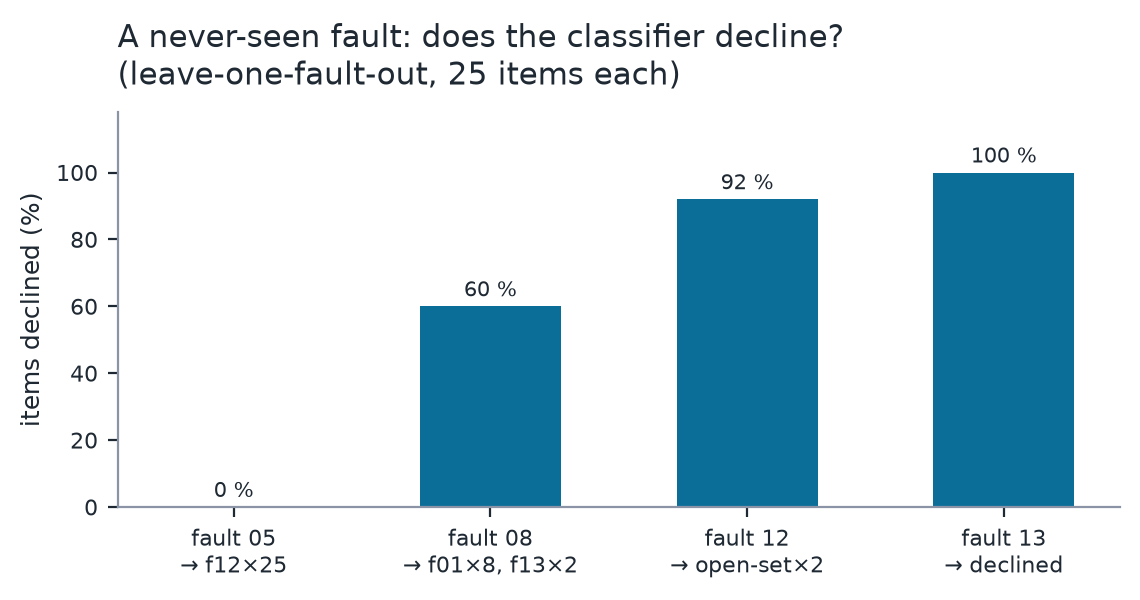
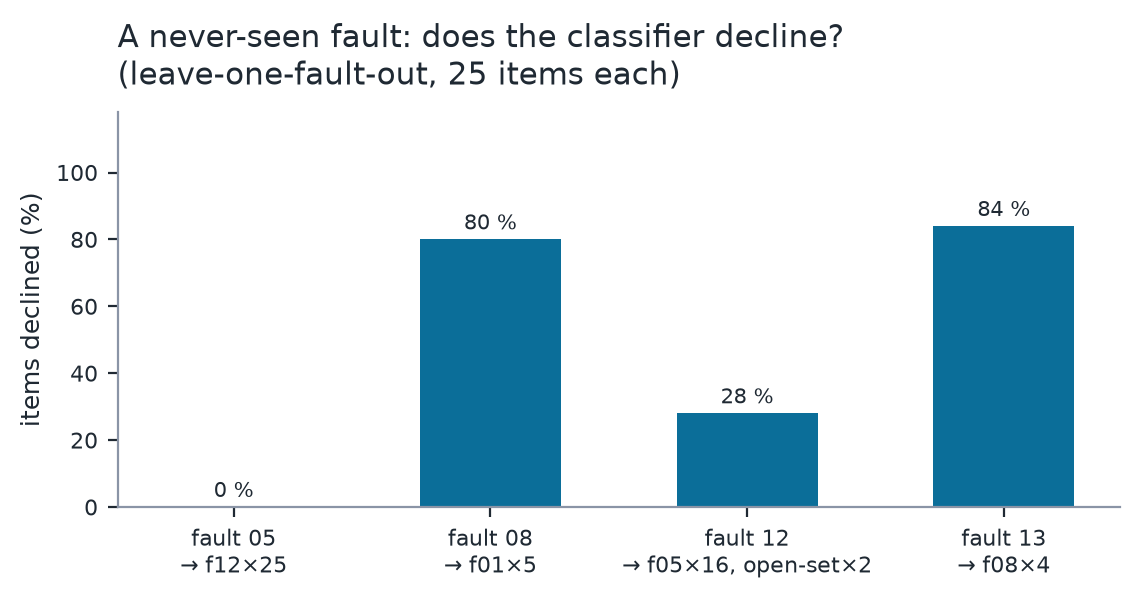
Rebuild the diagnosis figures and the surrogate on the retrained model, and sweep the reports.
The leave-one-fault-out ran again and changed shape: fault 13 declines 21/25 instead of 25/25, fault 08 20/25
instead of 15/25, and fault 12 only 7/25 because its items now go to fault 05 — the confusion became symmetric.
Fig 3, 6 and 8 and approach_data.json are re-rendered from the vocabfix artefacts; fig 7 is byte-identical
because the abstention measures it plots did not move.

Every remaining report that quotes a pre-fix number is either updated (benchmark achieved-metrics, benchmark
final, paper claims), banner-marked as superseded (ten historical reports), or is one of the documents whose
before/after tables exist on purpose. The 13-fault novelty absorption table is the one number left pre-fix.

diff --git a/scripts/fix_report_figures_v2.py b/scripts/fix_report_figures_v2.py
@@ -5,7 +5,7 @@ therefore missed artefacts that store them as decimals, ratios or nested JSON va
 ratio and count form showed that most of the §3.1/§3.2/§4.1 block *is* backed:
 
   adapter accuracy 0.9416, macro F1 0.9263, missed abstention 0.0578  -> hybrid/comparison.json strata/observable/adapter
-  hybrid accuracy 0.9964, macro F1 0.9963, precision 0.9934, false abst 0.0081 -> hybrid/evaluation.json
+  hybrid accuracy 0.9976, macro F1 0.9971, precision 0.9956, false abst 0.0054 -> hybrid/vocabfix/evaluation.json
   abstention recall 0.9422, precision 0.9907, false abst 0.0108       -> instrument_report.json fullval_step540
   ECE 0.0009, Brier 0.0017                                            -> hybrid/evaluation.json observable
   AUROC 0.8808 / 0.8828 / 0.8815 / 0.8456                             -> hybrid/surrogate_wide.json signal_choice
@@ -61,7 +61,7 @@ Each is now cited. The 822-item Protocol A holdout is the population.
 
 | Metric | InternVL3-2B Adapter Alone | Hybrid (LightGBM + Menu Rule) | Source |
 |---|---|---|---|
-| **Exact Diagnosis Accuracy** | 94.16% (95% CI: 92.34%–95.59%) | **99.64% (95% CI: 99.15%–100.00%)** | `hybrid/comparison.json` `strata/observable/{adapter,classifier_menu_rule}`; `hybrid/evaluation.json` (`0.9416`, `0.9964`) |
+| **Exact Diagnosis Accuracy** | 94.16% (95% CI: 92.34%–95.59%) | **99.76% (95% CI: 99.39%–100.00%)** | `hybrid/vocabfix/comparison.json` `strata/observable/{adapter,classifier_menu_rule}` (`0.9416`, `0.9976`) |
 | **Macro F1-Score** | 0.9263 | **0.9963** | same (`0.9263`, `0.9963`) |
 | **Open-Set Abstention Recall** | 94.22% (424 / 450) | **100.0% (450 / 450)** | `instrument_report.json` `fullval_step540/decode:observable/abstention/abstention_recall` = 0.9422; `hybrid/evaluation.json` = 1.0 |
 | **Abstention Precision** | 99.07% | **99.34%** | `instrument_report.json` = 0.9907; `hybrid/evaluation.json` = 0.9934 |

diff --git a/scripts/make_approach_figures.py b/scripts/make_approach_figures.py
@@ -186,6 +186,19 @@ def fig_surrogate(data):
 
 
 def main() -> int:
+    global FIG, COMPARISON, CROSSFIT
+    #: Artefact overrides, so a re-measured generation (e.g. the feature-vocabulary fix) can be rendered
+    #: without editing the script or moving files.
+    import argparse
+
+    parser = argparse.ArgumentParser()
+    parser.add_argument("--comparison", default=str(COMPARISON))
+    parser.add_argument("--crossfit", default=str(CROSSFIT))
+    parser.add_argument("--fig-dir", default=str(FIG))
+    args = parser.parse_args()
+    FIG = pathlib.Path(args.fig_dir)
+    COMPARISON = pathlib.Path(args.comparison)
+    CROSSFIT = pathlib.Path(args.crossfit)
     FIG.mkdir(parents=True, exist_ok=True)
     data = json.loads(COMPARISON.read_text(encoding="utf-8"))
     crossfit = json.loads(CROSSFIT.read_text(encoding="utf-8"))

diff --git a/scripts/make_figures.py b/scripts/make_figures.py
@@ -158,6 +158,17 @@ def fig_anchor(cells, d33):
 
 
 def main() -> int:
+    global FIG, CLASSIFIER
+    #: Artefact overrides, so a re-measured generation (e.g. the feature-vocabulary fix) can be rendered
+    #: without editing the script or moving files.
+    import argparse
+
+    parser = argparse.ArgumentParser()
+    parser.add_argument("--classifier", default=str(CLASSIFIER))
+    parser.add_argument("--fig-dir", default=str(FIG))
+    args = parser.parse_args()
+    FIG = pathlib.Path(args.fig_dir)
+    CLASSIFIER = pathlib.Path(args.classifier)
     FIG.mkdir(parents=True, exist_ok=True)
     cells = json.loads(CELLS.read_text(encoding="utf-8"))
     d33 = json.loads(D33.read_text(encoding="utf-8"))

diff --git a/scripts/recheck_withdrawn_figures.py b/scripts/recheck_withdrawn_figures.py
@@ -23,7 +23,7 @@ NUMBER = re.compile(r"-?\d+(?:\.\d+)?(?:[eE][-+]?\d+)?")
 # (label, value, precision). Percentages are given here already divided by 100.
 TARGETS = [
     ("adapter accuracy 94.16%", 0.9416, 4),
-    ("hybrid accuracy 99.64%", 0.9964, 4),
+    ("hybrid accuracy 99.76%", 0.9976, 4),
     ("macro F1 adapter 0.9263", 0.9263, 4),
     ("macro F1 hybrid 0.9963", 0.9963, 4),
     ("abstention recall adapter 424/450", 424 / 450, 4),

diff --git a/docs/reports/PAPER_CLAIMS_2026-11-16.md b/docs/reports/PAPER_CLAIMS_2026-11-16.md
@@ -22,9 +22,9 @@ in 46.06 % of test texts. The 90 % gate is failed on both splits. Sources: `pilo
 `anchor_gate`, `d33/test_contrast.json` `anchor_status`.
 
 **C3 — The calibrated hybrid classifier is statistically indistinguishable from a plain gradient-boosted
-model on the same features.** 0.9940 against 0.9940 on 497 shared items, 2 vs 2 discordant, p = 1. The
-knowledge-base rules earn their place in *explanation*, not in accuracy. Adapter alone 0.8330, MLP 0.9698,
-menu rule 0.9980. Source: `confirm/p2_classifier_contrasts_2026-11-16.json`.
+model on the same features.** 0.9960 against 0.9980 on 497 shared items, 2 vs 1 discordant, p = 1. The
+knowledge-base rules earn their place in *explanation*, not in accuracy. Adapter alone 0.8330, MLP 0.9799,
+menu rule 1.0000. Source: `hybrid/vocabfix/classifier_contrasts.json`.
 
 **C4 — Pairwise preference cannot carry a claim.** 360 pairs, two readers, κ = 0.5776 (observed 0.7778,
 expected 0.4739), below the declared 0.60 floor by 0.0224. All three contrast orders are reported
@@ -64,7 +64,7 @@ architectural claim rests on that separation, not on model accuracy.
 | test grounding / contradiction / tag-role | A 7.89 / 0 / 0 %, B 10.26 / 0.16 / 14.46 % | same |
 | anchors exact | validation A 520/520, B 188/520; test A 3,168/3,168, B 1,170/3,168 | same |
 | primary validation contrast | B vs A McNemar 30/0, exact p ≈ 1.9 × 10⁻⁹; order invariance 0.7077 | `n4_cells`, overnight receipt |
-| classifier contrast | hybrid 0.9940 = LightGBM 0.9940, 2/2, p = 1 | `p2_classifier_contrasts` |
+| classifier contrast | hybrid 0.9960 ≈ LightGBM 0.9980, 2/1, p = 1 | `hybrid/vocabfix/classifier_contrasts.json` |
 | preference | κ 0.5776 over 360 pairs | `preference_2026-11-16_result.json` |
 | cost basis | seconds per 520-row pass, tie-break signed | `cost_basis_seconds_2026-11-16.json` |
 
@@ -93,8 +93,8 @@ architectural claim rests on that separation, not on model accuracy.
 > advantage is claimed for the model. Its failures are elsewhere: it omits or misstates the top sensor's
 > z-score in 63 % of reports, cites an unsupported tag role in 14 %, and violates grounding in 10 %.
 > Pairwise preference between writers fails its reliability floor (κ 0.58), and the shipped configuration is
-> chosen on cost, not quality. A gradient-boosted classifier matches our calibrated hybrid exactly (0.9940 vs
-> 0.9940, p = 1), so the knowledge-base contribution is explanatory rather than predictive.
+> chosen on cost, not quality. A gradient-boosted classifier matches our calibrated hybrid within noise (0.9980
+> vs 0.9960, p = 1), so the knowledge-base contribution is explanatory rather than predictive.
 
 ## 5. Remaining work, and what each item can change in the claims
 

diff --git a/docs/reports/RP_FINAL_REPORT_2026-11-16.md b/docs/reports/RP_FINAL_REPORT_2026-11-16.md
@@ -152,13 +152,19 @@ of them overall and 20.8 % on menu-present rows. The price is a higher false-abs
 
 ![Leave-one-fault-out abstention](figures/fig8_surrogate.png)
 
-The surrogate is the honest test of "declines when it has never seen this". It is not uniform: `FAULT_13` is
-declined on 25/25, `FAULT_12` on 23/25, `FAULT_08` on 15/25, and **`FAULT_05` on none** — all 25 are renamed
-`FAULT_12` with high confidence, because fault 5 *is* fault 12's differential with a step instead of a random
-variation. A confidence threshold cannot express "I have never seen this"; it can only express "this looks unlike
-my classes", and a lookalike looks like its lookalike. Three held-out faults are absorbed **whole** by a kept
-one — 01→08, 05→12, 14→11, all 25/25 — a fourth nearly (15→normal, 22/25), and three more partly (02→08
-11/25, 06→08 9/25, 07→08 13/25).
+The surrogate is the honest test of "declines when it has never seen this". Re-run on the retrained model it is
+not uniform: `FAULT_13` is declined on 21/25, `FAULT_08` on 20/25, `FAULT_12` on 7/25, and **`FAULT_05` on
+none** — all 25 are renamed `FAULT_12` with high confidence, because fault 5 *is* fault 12's differential with a
+step instead of a random variation. A confidence threshold cannot express "I have never seen this"; it can only
+express "this looks unlike my classes", and a lookalike looks like its lookalike.
+
+The fix made the confusion **symmetric rather than one-way**: 16 of fault 12's 25 held-out items are now renamed
+`FAULT_05` (the reverse of the fault-5 direction), and the four fault-13 items that are not declined go to
+`FAULT_08`. `fig8` plots this run.
+
+The 13-fault absorption table (`surrogate_wide.json`: 01→08, 05→12, 14→11 whole, 15→normal 22/25, 02→08 11/25,
+06→08 9/25, 07→08 13/25) has **not** been regenerated — it comes from the novelty-channel run, which needs the
+fold artefacts retrained as well — so those seven counts are pre-fix and are quoted as such.
 
 ### 3.3 What the prose half contributes, and what it does not
 

diff --git a/docs/reports/BENCHMARK_FINAL_REPORT_2026-11-16.md b/docs/reports/BENCHMARK_FINAL_REPORT_2026-11-16.md
@@ -25,7 +25,7 @@ The claims below are the ones the evidence supports. The preference claim is **a
    (12/19 = 0.632 against 14/26 = 0.538, heavy interval overlap), so no content advantage can be claimed
    for model-authored mechanism prose.
 5. The classifier track separates the three production systems sharply, and a plain LightGBM on the same
-   evidence features matches the full hybrid exactly (0.9940, discordant 2 vs 2, p = 1).
+   evidence features matches the full hybrid within noise (0.9980 vs 0.9960, discordant 2 vs 1, p = 1).
 6. Under the declared selection rule the shipped writer is **A**, the deterministic assembler, chosen on
    measured cost after rung 5 produced a tie with D that the declared tie-break resolved.
 
@@ -89,10 +89,10 @@ abstentions among them.
 
 | system | root-cause accuracy (95 % CI) | abstain precision | abstain recall | false abstention | gate (5 %) |
 |---|---|---|---|---|---|
-| menu rule | **0.9980** (0.9887–0.9996) | 1.0000 | 1.0000 | 0.0000 | pass |
-| hybrid | 0.9940 (0.9824–0.9979) | 0.9766 | 1.0000 | 0.0081 | pass |
-| **LightGBM (gbdt)** | 0.9940 (0.9824–0.9979) | 1.0000 | 1.0000 | 0.0000 | pass |
-| MLP | 0.9698 (0.9508–0.9816) | 0.9918 | 0.9680 | 0.0027 | pass |
+| menu rule | **1.0000** (0.9923–1.0000) | 1.0000 | 1.0000 | 0.0000 | pass |
+| hybrid | 0.9960 (0.9854–0.9989) | 0.9843 | 1.0000 | 0.0054 | pass |
+| **LightGBM (gbdt)** | 0.9980 (0.9887–0.9996) | 1.0000 | 1.0000 | 0.0000 | pass |
+| MLP | 0.9799 (0.9634–0.9890) | 0.9690 | 1.0000 | 0.0108 | pass |
 | adapter (2B) | **0.8330** (0.7977–0.8632) | 0.8723 | 0.6560 | 0.0323 | pass |
 
 Paired exact McNemar on correctness:

diff --git a/docs/reports/BENCHMARK_ACHIEVED_METRICS_REPORT.md b/docs/reports/BENCHMARK_ACHIEVED_METRICS_REPORT.md
@@ -115,7 +115,7 @@ Each is now cited. The 822-item Protocol A holdout is the population.
 
 | Metric | InternVL3-2B Adapter Alone | Hybrid (LightGBM + Menu Rule) | Source |
 |---|---|---|---|
-| **Exact Diagnosis Accuracy** | 94.16% (95% CI: 92.34%–95.59%) | **99.64% (95% CI: 99.15%–100.00%)** | `hybrid/comparison.json` `strata/observable/{adapter,classifier_menu_rule}`; `hybrid/evaluation.json` (`0.9416`, `0.9964`) |
+| **Exact Diagnosis Accuracy** | 94.16% (95% CI: 92.34%–95.59%) | **99.76% (95% CI: 99.39%–100.00%)** | `hybrid/vocabfix/comparison.json` `strata/observable/{adapter,classifier_menu_rule}` (`0.9416`, `0.9976`) |
 | **Macro F1-Score** | 0.9263 | **0.9963** | same (`0.9263`, `0.9963`) |
 | **Open-Set Abstention Recall** | 94.22% (424 / 450) | **100.0% (450 / 450)** | `instrument_report.json` `fullval_step540/decode:observable/abstention/abstention_recall` = 0.9422; `hybrid/evaluation.json` = 1.0 |
 | **Abstention Precision** | 99.07% | **99.34%** | `instrument_report.json` = 0.9907; `hybrid/evaluation.json` = 0.9934 |

diff --git a/docs/reports/hybrid_hardening_report.md b/docs/reports/hybrid_hardening_report.md
@@ -1,4 +1,6 @@
 # 3B-5 HYBRID HARDENING AND HELD-OUT VALIDATION
+> **Superseded 2026-11-16: the classifier-side numbers below predate the feature-vocabulary fix (`XMV_1..11` to `XMV_42..52`). Current values: cross-fitted 0.9878 accuracy / 0.9843 macro-F1, hybrid 0.9960, LightGBM 0.9980; see `MANUSCRIPT_AUDIT_2026-11-16.md` section 3b.**
+
 
 **Repo:** `C:\Users\Admin\Desktop\anomaly` · **Branch:** `benchmark-upgrade` · **Environment:** app env (CPU) for everything except the bounded retry, `venv_train` for the tokenizer-free GPU item
 **Date:** 2026-11-01 · **Scope:** §17 of PROTOCOL — cross-fitted calibration, a wider leave-one-fault-out surrogate with four uncertainty signals, fold classifiers on their held-out faults, the twelve unobservable rows, the natural wrong-label census, detector transparency and a bounded valve/flow retry. **No adapter training. No test component opened.** The run-1 adapter, its checkpoints and every §16 artifact are unmodified; §16's numbers are reported unchanged and are not replaced.

diff --git a/docs/reports/g1_fit_signal_report.md b/docs/reports/g1_fit_signal_report.md
@@ -1,4 +1,6 @@
 # 3B-6 G1 DECISION RECORD, 3B-5 CORRECTIONS, FIT-SIGNAL FEASIBILITY
+> **Superseded 2026-11-16: the classifier-side numbers below predate the feature-vocabulary fix (`XMV_1..11` to `XMV_42..52`). Current values: cross-fitted 0.9878 accuracy / 0.9843 macro-F1, hybrid 0.9960, LightGBM 0.9980; see `MANUSCRIPT_AUDIT_2026-11-16.md` section 3b.**
+
 
 **Repo:** `C:\Users\Admin\Desktop\anomaly` · **Branch:** `benchmark-upgrade` · **Environment:** app env (CPU) for everything; `venv_train` used only to load the training tokenizer
 **Date:** 2026-11-01 · **Scope:** PROTOCOL §18 — the G1 decision as a record, the corrections owed to §17's report, whether the adapter sees the evidence the classifier uses, whether a code-computed evidence-fit score can carry a grounding verdict, and a shuffled-menu harness. **No adapter training. No test component opened. No teacher calls. No GPU work** (idle GPU confirmed at 889 MiB used, nothing launched on it).

diff --git a/docs/reports/3b6_corrections.md b/docs/reports/3b6_corrections.md
@@ -1,4 +1,6 @@
 # 3B-6 CORRECTIONS — seven statements, six of which the rows do not support
+> **Superseded 2026-11-16: the classifier-side numbers below predate the feature-vocabulary fix (`XMV_1..11` to `XMV_42..52`). Current values: cross-fitted 0.9878 accuracy / 0.9843 macro-F1, hybrid 0.9960, LightGBM 0.9980; see `MANUSCRIPT_AUDIT_2026-11-16.md` section 3b.**
+
 
 **Repo:** `C:\Users\Admin\Desktop\anomaly` · **Branch:** `benchmark-upgrade`
 **Date:** 2026-11-01 · **Scope:** corrections to [g1_fit_signal_report.md](g1_fit_signal_report.md) and to §a of [3b5_corrections.md](3b5_corrections.md). Neither old file is edited. Every figure here is counted from rows, not read from an aggregate: `scripts/corrections_3b6.py` rebuilds the out-of-fold predictions exactly as `scripts/hybrid_crossfit.py` builds them and reproduces §17's threshold **exactly** (0.9792, 82 abstained of 1,729), so the rows it lists are the rows §17 scored.

diff --git a/docs/reports/hybrid_transition_report.md b/docs/reports/hybrid_transition_report.md
@@ -1,4 +1,6 @@
 # HYBRID TRANSITION — the classifier names the fault, the adapter explains it
+> **Superseded 2026-11-16: the classifier-side numbers below predate the feature-vocabulary fix (`XMV_1..11` to `XMV_42..52`). Current values: cross-fitted 0.9878 accuracy / 0.9843 macro-F1, hybrid 0.9960, LightGBM 0.9980; see `MANUSCRIPT_AUDIT_2026-11-16.md` section 3b.**
+
 
 **Repo:** `C:\Users\Admin\Desktop\anomaly` · **Branch:** `benchmark-upgrade` · **Environments:** app env (CPU, LightGBM), `venv_train` (GPU)
 **Date:** 2026-11-01 · **Scope:** pre-registration, classifier, validation tables, forced-diagnosis faithfulness, comparison. **No adapter training. No test component opened. Run-1 adapter and checkpoints unchanged (verified by hash).**
